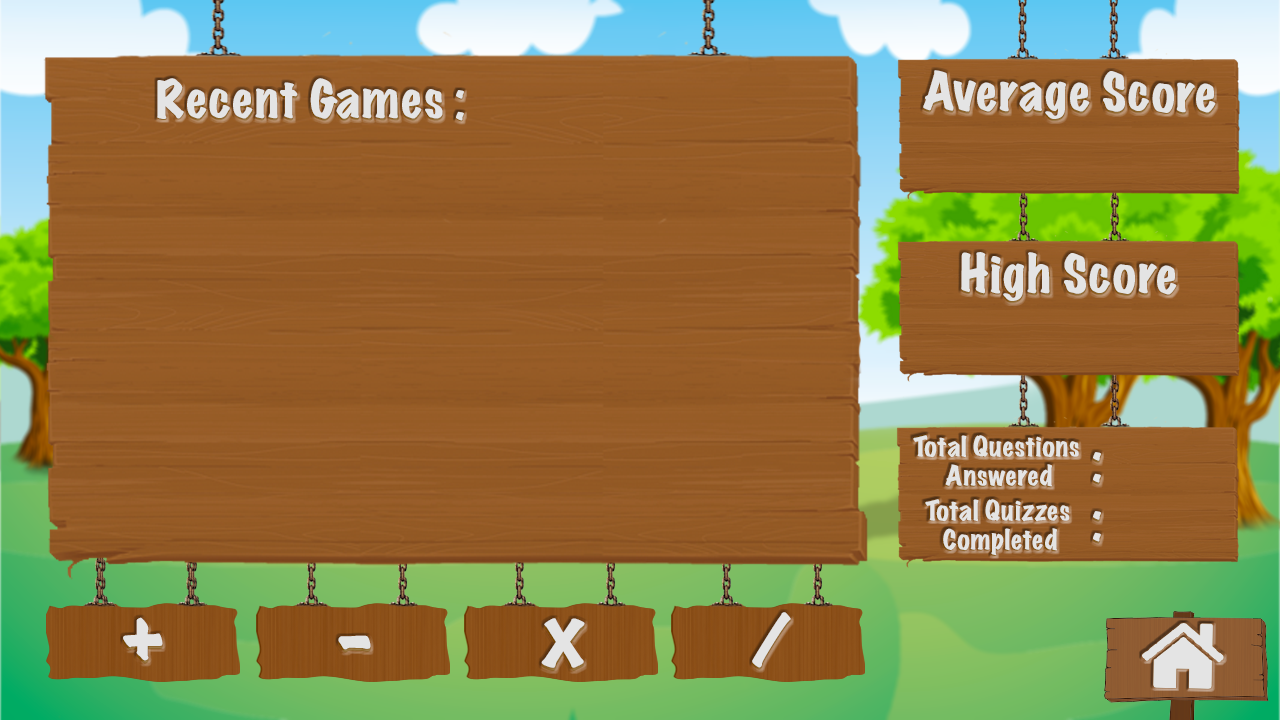
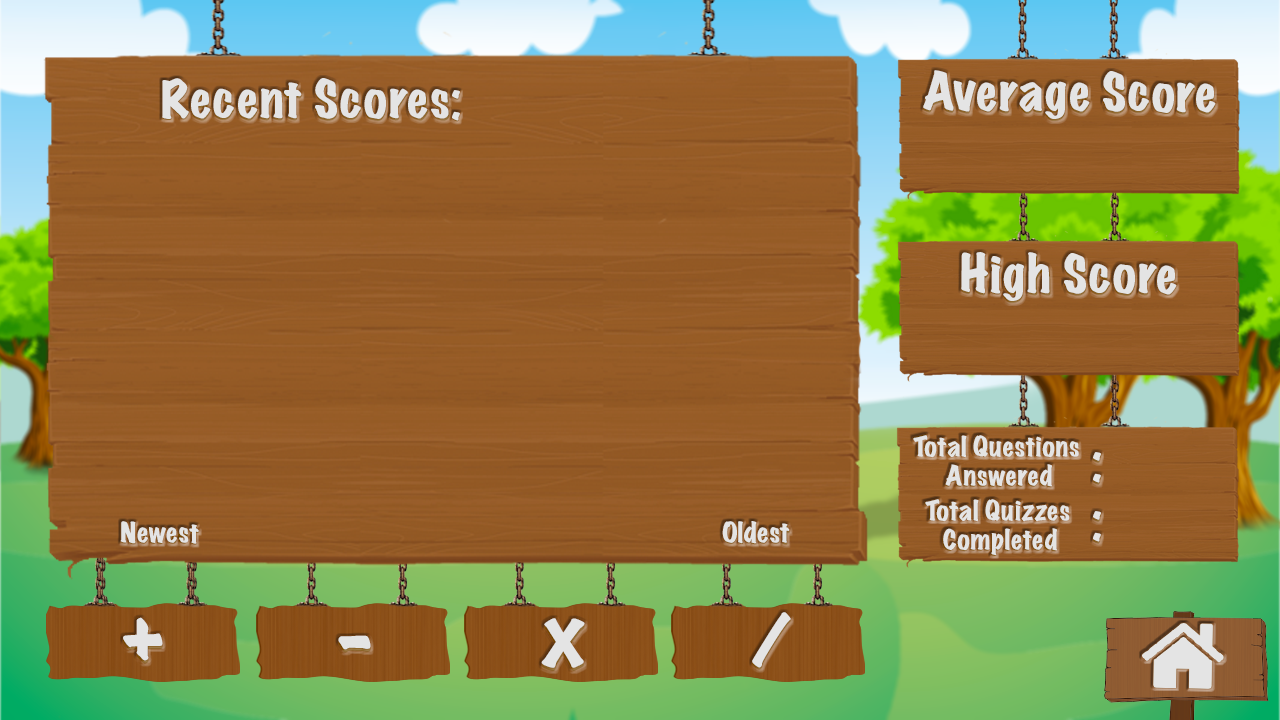
minor adjustments to stats view

Changed region(s): [[0.0938, 0.0917, 0.375, 0.1833], [0.5625, 0.7028, 0.625, 0.7639], [0.0938, 0.7028, 0.1562, 0.7639]]

diff --git a/resources/stylesheets/StatsViewStyle.css b/resources/stylesheets/StatsViewStyle.css
@@ -71,3 +71,7 @@ Button:hover {
     -fx-background-image: none;
     -fx-background-color: #e4e4e4;
 }
+
+.axis {
+    -fx-tick-label-fill: Transparent;
+}

diff --git a/src/controller/StatsViewController.java b/src/controller/StatsViewController.java
@@ -3,7 +3,9 @@ package controller;
 import javafx.collections.FXCollections;
 import javafx.collections.ObservableList;
 import javafx.fxml.FXML;
+import javafx.fxml.FXMLLoader;
 import javafx.fxml.Initializable;
+import javafx.scene.Scene;
 import javafx.scene.chart.BarChart;
 import javafx.scene.chart.CategoryAxis;
 import javafx.scene.chart.XYChart;
@@ -12,6 +14,8 @@ import javafx.scene.control.Label;
 import model.ModeDirector;
 import model.Statistics;
 
+import java.io.File;
+import java.io.IOException;
 import java.net.URL;
 import java.util.Arrays;
 import java.util.LinkedList;
@@ -204,6 +208,12 @@ public class StatsViewController extends AbstractController implements Initializ
      */
     @Override
     public void initialize(URL location, ResourceBundle resources) {
+        try {
+            pushPopup(new Scene(FXMLLoader.load(getClass().getResource(File.separator + "view" + File.separator + "ParentsHelpPopup.fxml"))),false);
+        } catch (IOException e) {
+            e.printStackTrace();
+        }
+
         addPressed = false;
         subPressed = false;
         multPressed = false;

diff --git a/src/model/CustomCollection.java b/src/model/CustomCollection.java
@@ -63,6 +63,7 @@ public class CustomCollection extends NumberCollection {
         _questionAnswersMap = new HashMap<>();
 
         boolean toggle = true;
+        boolean error = false;
         int questionNum = 0;
         int answerNum = 0;
         String temp;
@@ -91,10 +92,12 @@ public class CustomCollection extends NumberCollection {
                     _questionsMap.put(questionNum, temp);
                     questionNum++;
                     toggle = !toggle;
+                    error = true;
                 } else {
                     try {
                         temp = temp.replaceAll("\\s+", "");
                         _questionAnswersMap.put(answerNum, getMaoriName(Integer.parseInt(temp)));
+                        error = false;
                     } catch (Exception e) {
                         Alert alert = new Alert(Alert.AlertType.ERROR);
                         alert.setTitle("Error");

diff --git a/src/controller/CustomViewController.java b/src/controller/CustomViewController.java
@@ -97,6 +97,5 @@ public class CustomViewController extends AbstractController implements Initiali
         deleteLbl.visibleProperty().bind(deleteBtn.disabledProperty().not());
         playIcon.visibleProperty().bind(playBtn.disabledProperty().not());
 
-
     }
 }
